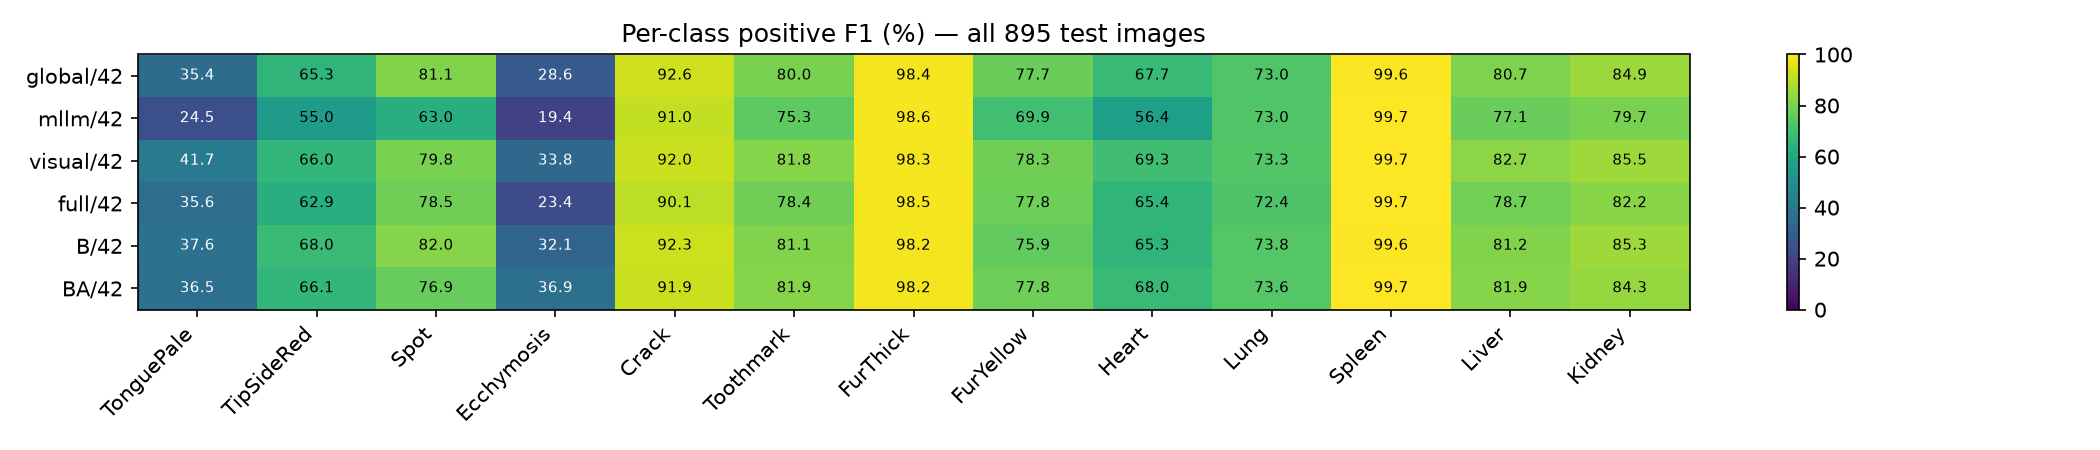
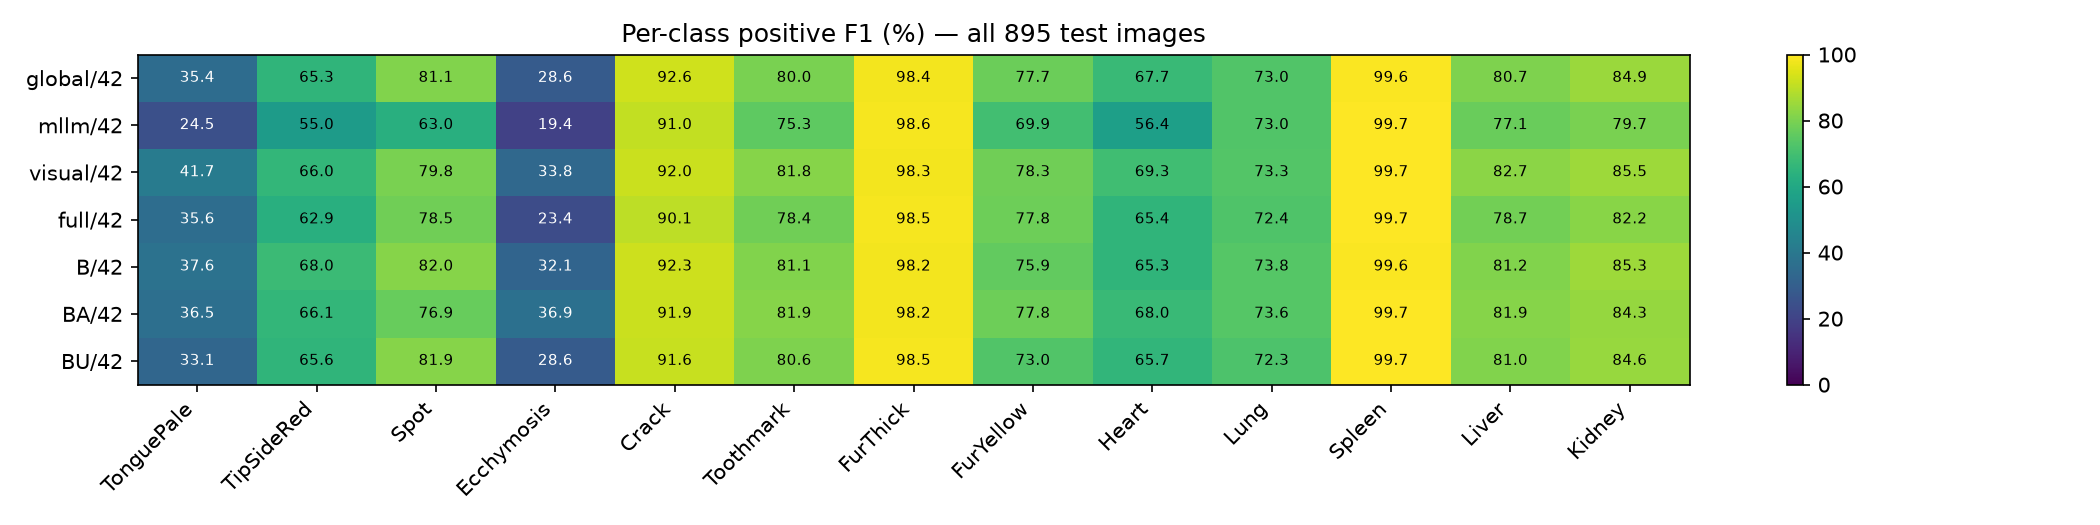
results: BU seed 42 reproduction milestone

diff --git a/reports/reproduction/20261005_042629_774918_suite/reproduction_report.md b/reports/reproduction/20261005_042629_774918_suite/reproduction_report.md
@@ -15,6 +15,7 @@ code_compat 保留独立七图增强、无 ImageNet normalization、global-only 
 | full | 42 | 96 | 83.24 / 68.15 | 76.80 / 79.70 |
 | B | 42 | 108 | 85.31 / 70.88 | 78.66 / 81.01 |
 | BA | 42 | 81 | 85.01 / 70.78 | 78.86 / 81.47 |
+| BU | 42 | 130 | 84.99 / 69.11 | 78.59 / 80.64 |
 
 六组消融和主模型多 seed 的运行状态见 `run_status.json`；未完成时不宣称整个复现完成。
 TVMoE 等外部实现/同 split 逐图预测、论文 Sankey 8×5 公式仍缺失，不能复现对应比较和图。
